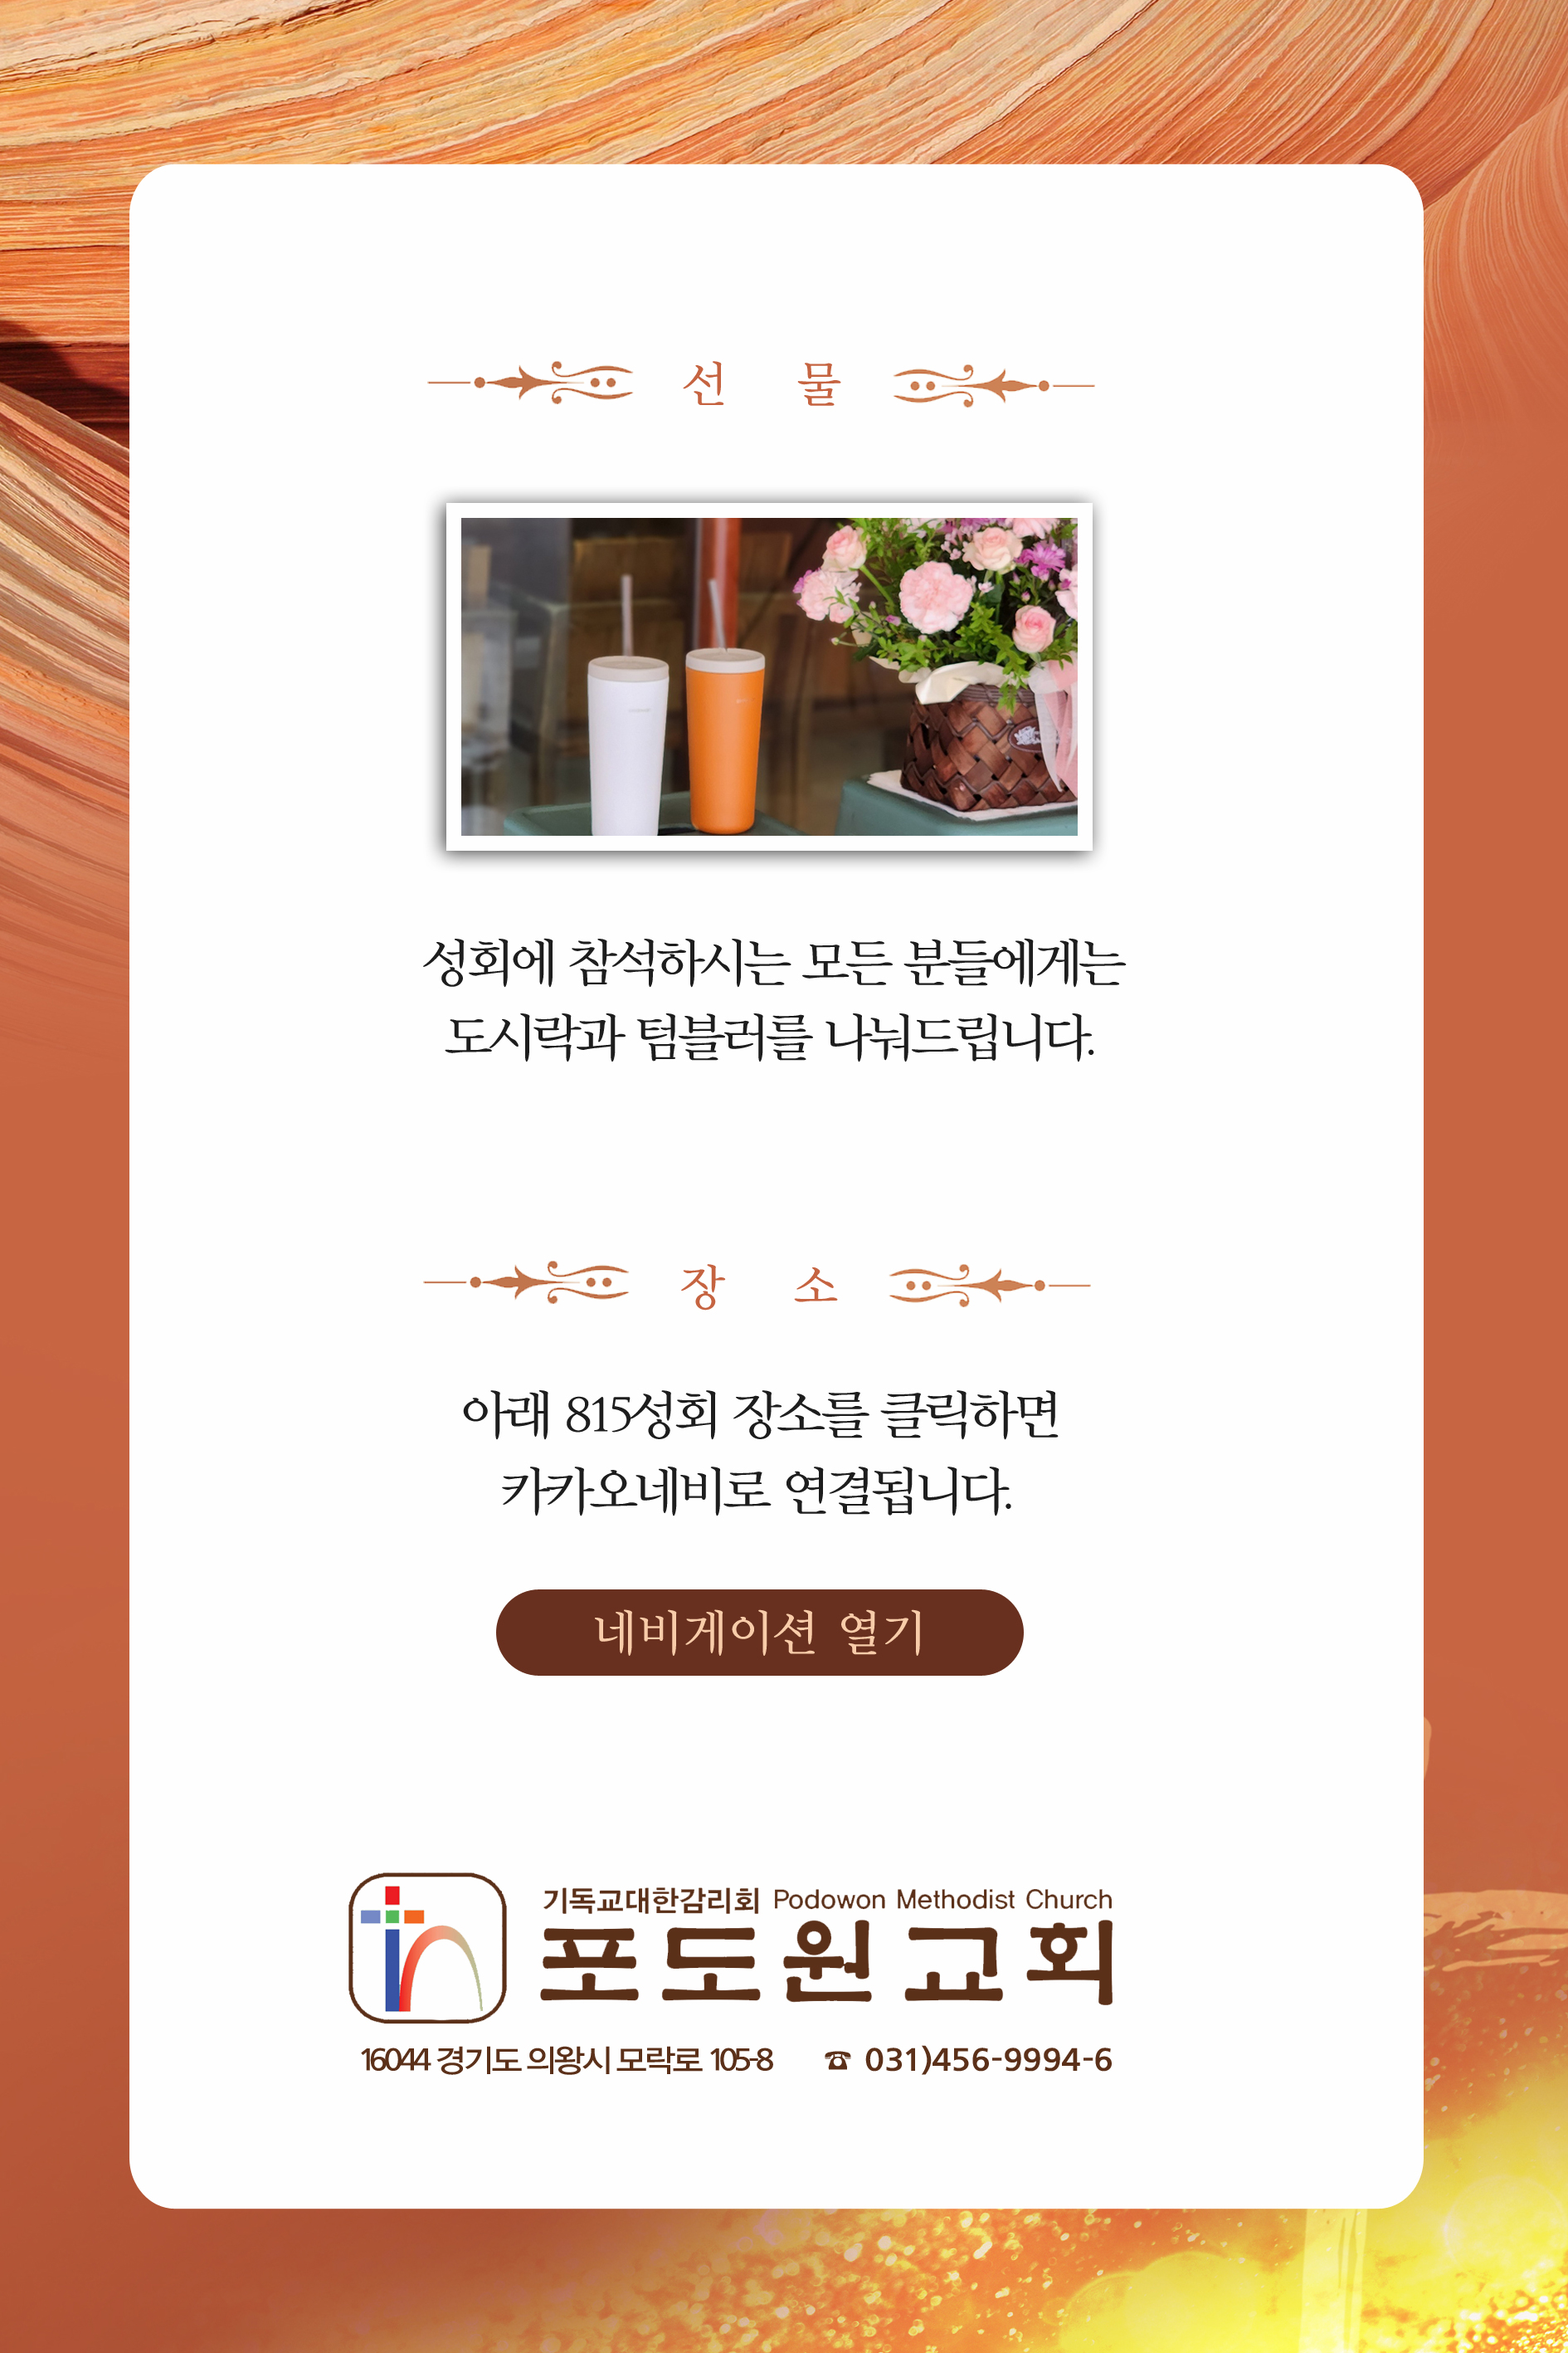
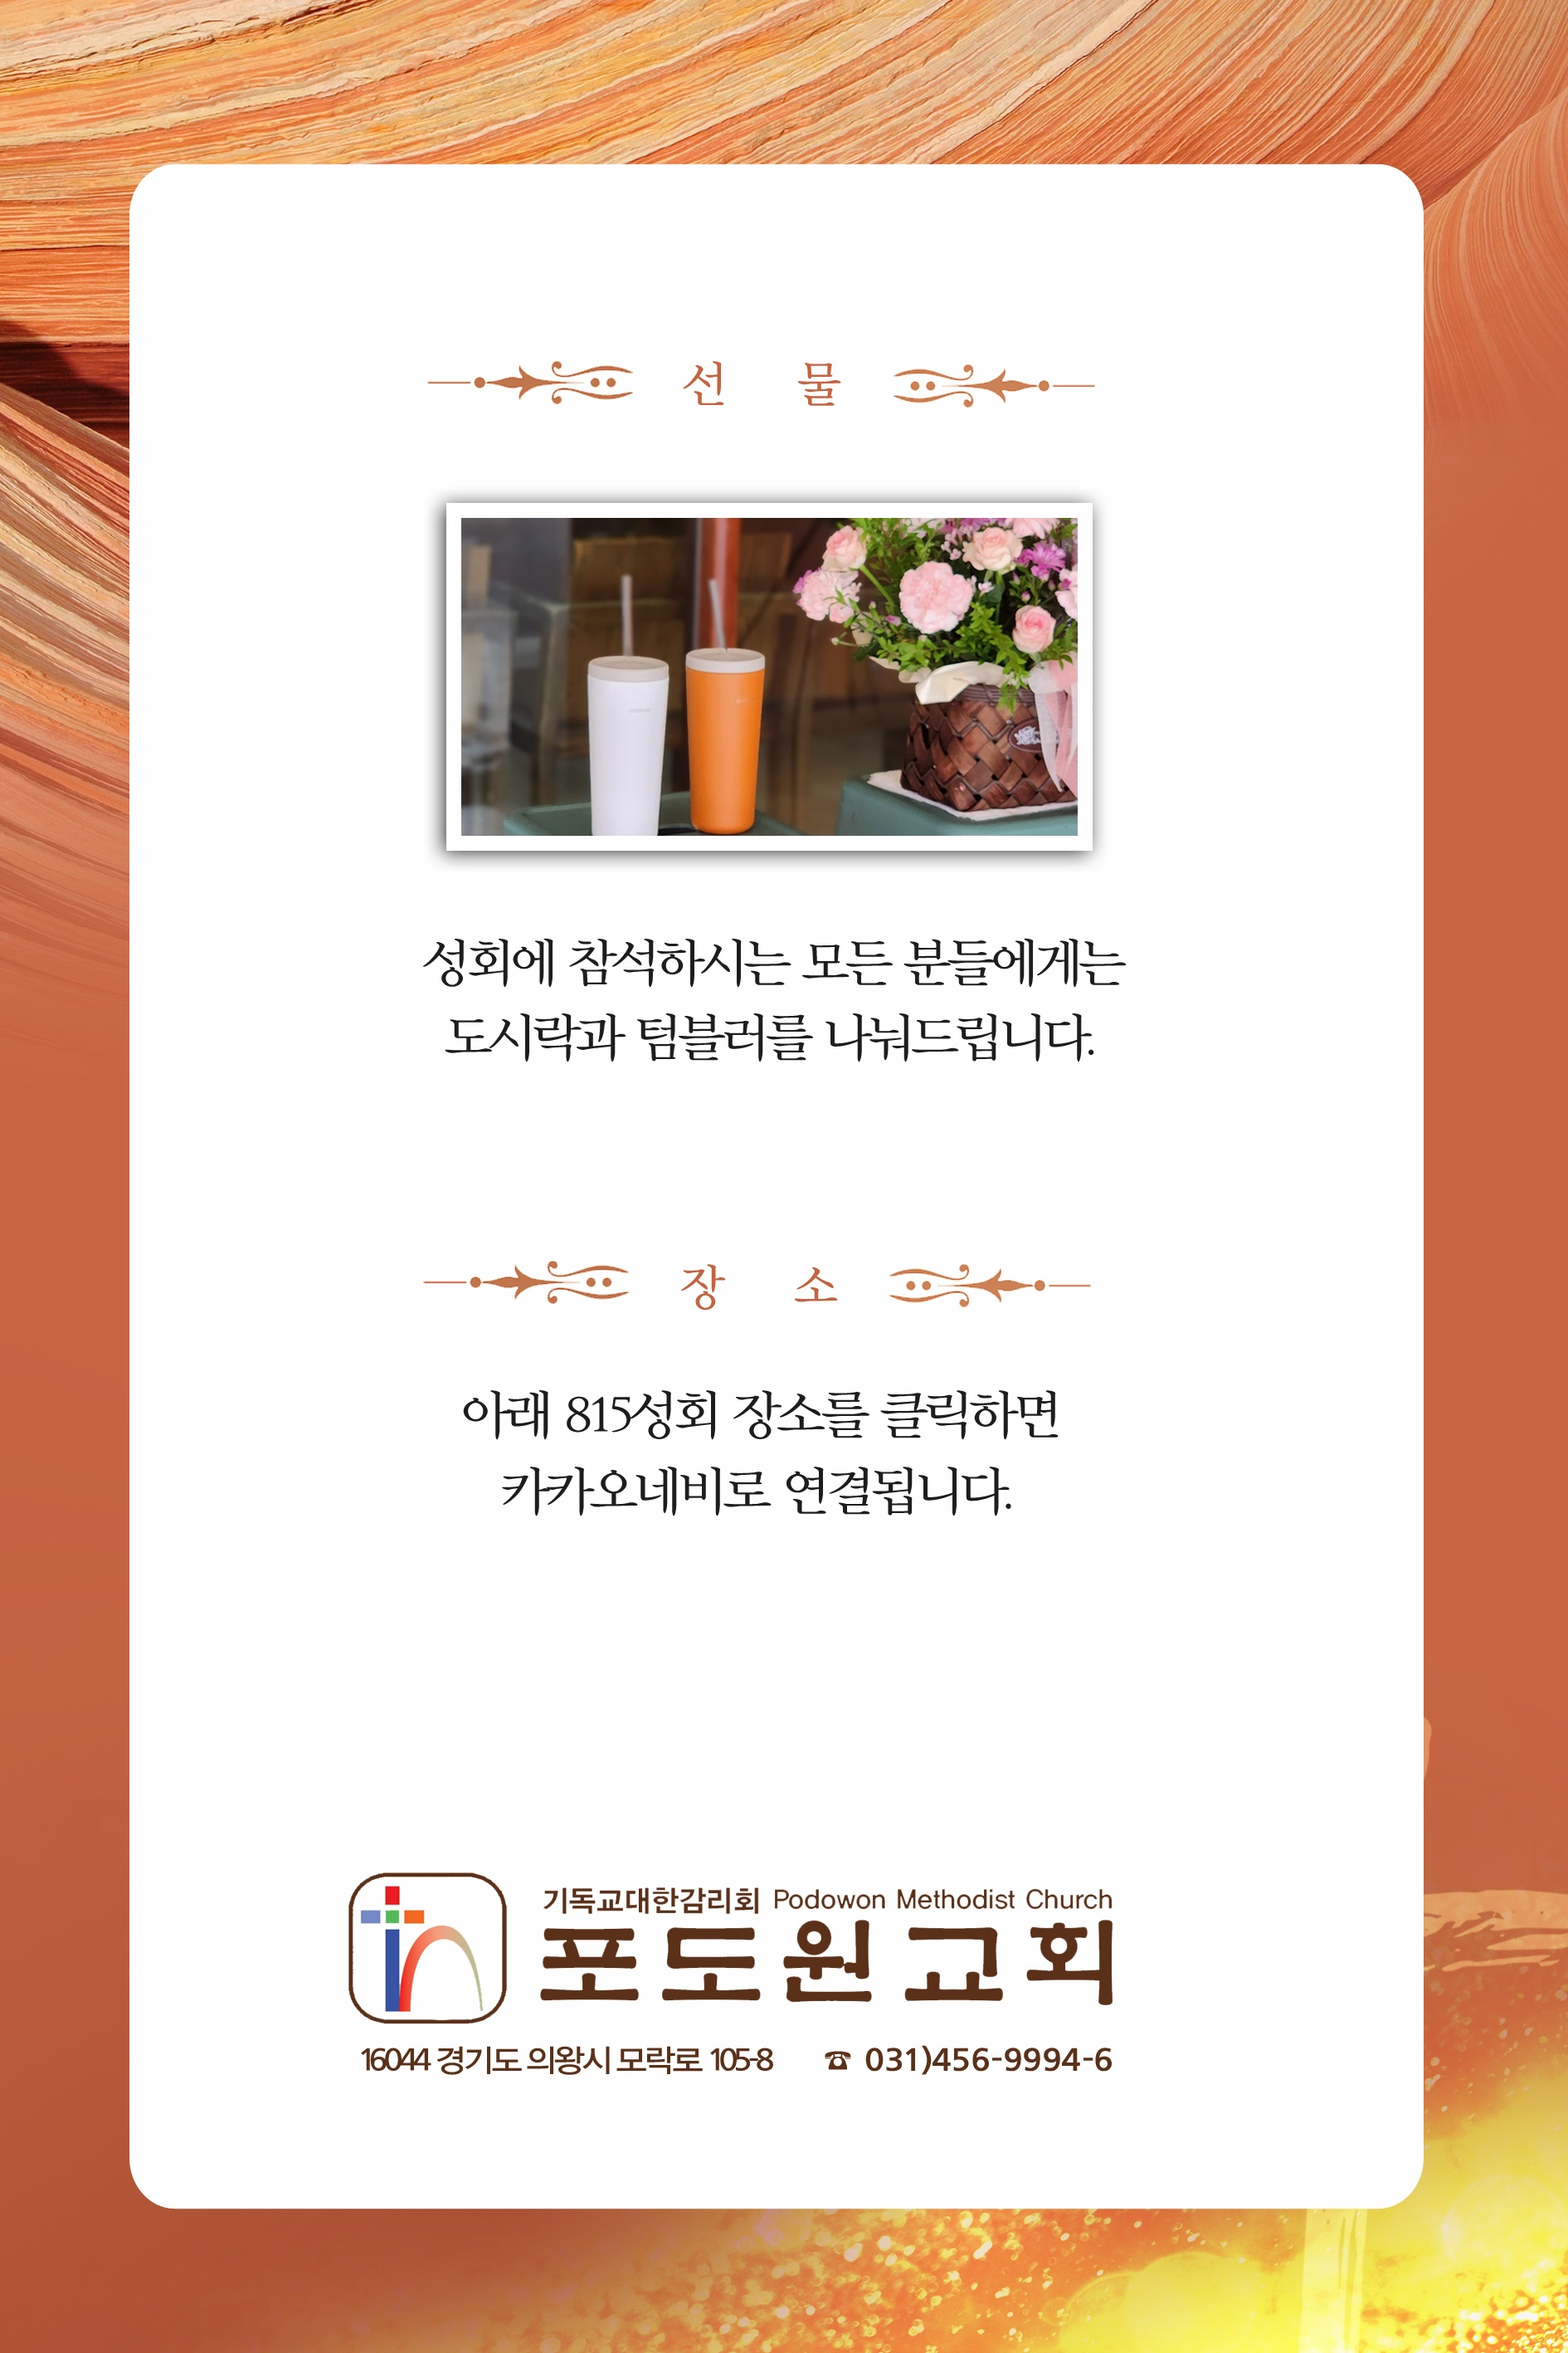
815

Changed region(s): [[0.3122, 0.6519, 0.6556, 0.7139], [0.9677, 0.9933, 1.0, 1.0]]

diff --git a/815.html b/815.html
@@ -35,8 +35,14 @@
 </head>
 
 <body>
+    <iframe src="asset/audio/-Amazing Grace (My Chains Are Gone).mp3?autoplay=1&mute=1"
+    style="display: none;"
+    allow="autoplay"
+
+    ></iframe>
+
     <div id="wrap">
-        <audio src=""></audio>
+        
         <div class="slide_wrap">
             <div id="titleImage">
                 <img src="asset/image/815_main.jpg" class="img100" />
@@ -44,16 +50,37 @@
 
             <div id="titleImage2">
                 <img src="asset/image/815_1.jpg" class="img200" />
+                <button type="button"
+              
+                class="815_button" 
+                style="background-color: #73382a;
+                border-radius: 20px;
+                width: 200px;
+                height: 30px;
+                border: none;
+                font-size: 1rem;
+                position: relative;
+                bottom: 220px;
+                left: 142px;
+                font-size: 1rem;
+                color: #f8efe1;
+                
+             "
+                onclick="location.href='http://kko.to/wobc0b-cq9'"
+               
+                >
+                네비게이션 열기</button>
             </div>
             <div id="titleImage2">
                 <img src="asset/image/815_2.jpg" class="img300" />
+             
             </div>
 
         
 
-            <!-- <div id="navimgId">
+            <!-- <div id="navimgId_815">
                 <a href="http://kko.to/7aLClhRqAb">
-                    <img src="asset/image/navi.png" class="navimg" />
+                    <img src="asset/image/815_button.jpg" class="navimg" />
                 </a>
             </div> -->
             <!-- <div>

diff --git a/css/815.css b/css/815.css
@@ -1,3 +1,7 @@
+
+
+
+
 .customoverlay {
     position: relative;
     bottom: 85px;
@@ -35,6 +39,7 @@
     font-weight: bold;
 }
 
+
 .customoverlay:after {
     content: '';
     position: absolute;
@@ -45,3 +50,17 @@
     height: 12px;
     background: url('https://t1.daumcdn.net/localimg/localimages/07/mapapidoc/vertex_white.png')
 }
+
+  #navimgId_815 {
+      text-align: center;
+      margin: auto;
+      max-width: 1500px;
+      height: 2px;
+      display: flex;
+      justify-content: center;
+      position: relative;
+      bottom: 1500px;
+  }
+
+
+
